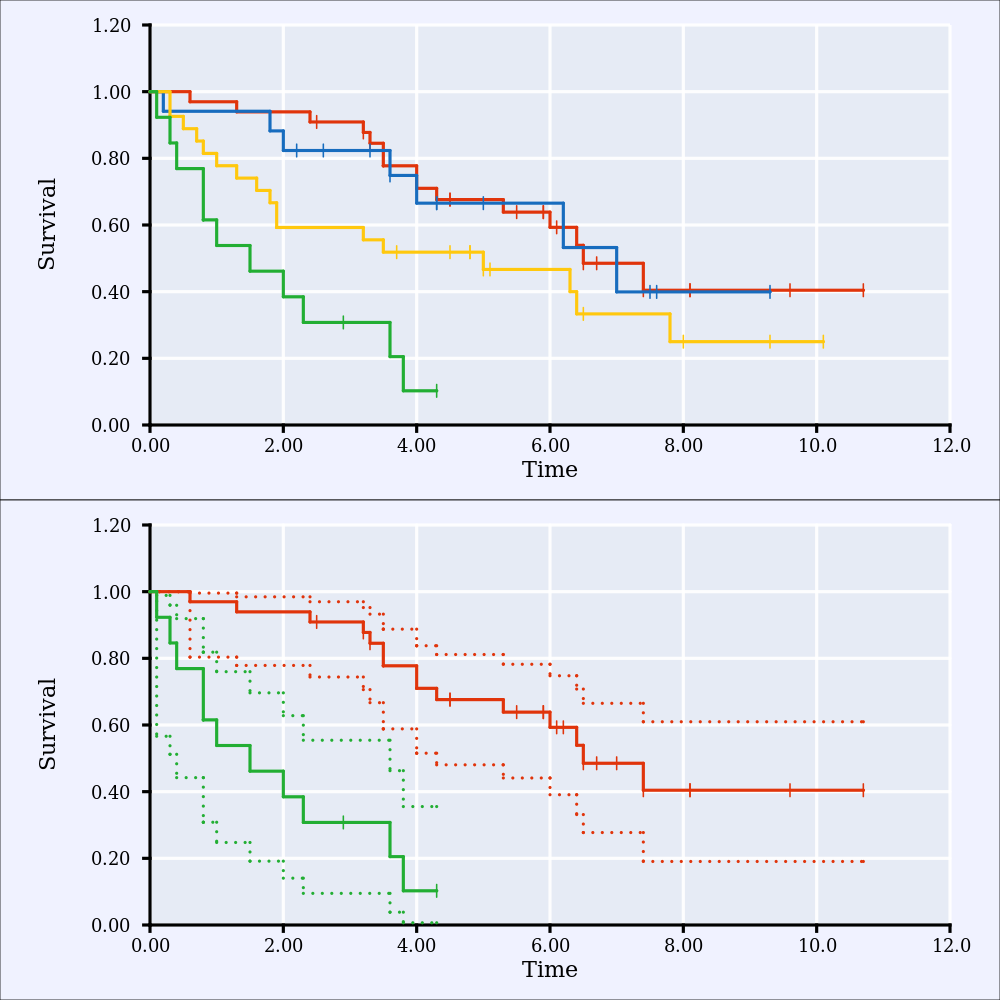
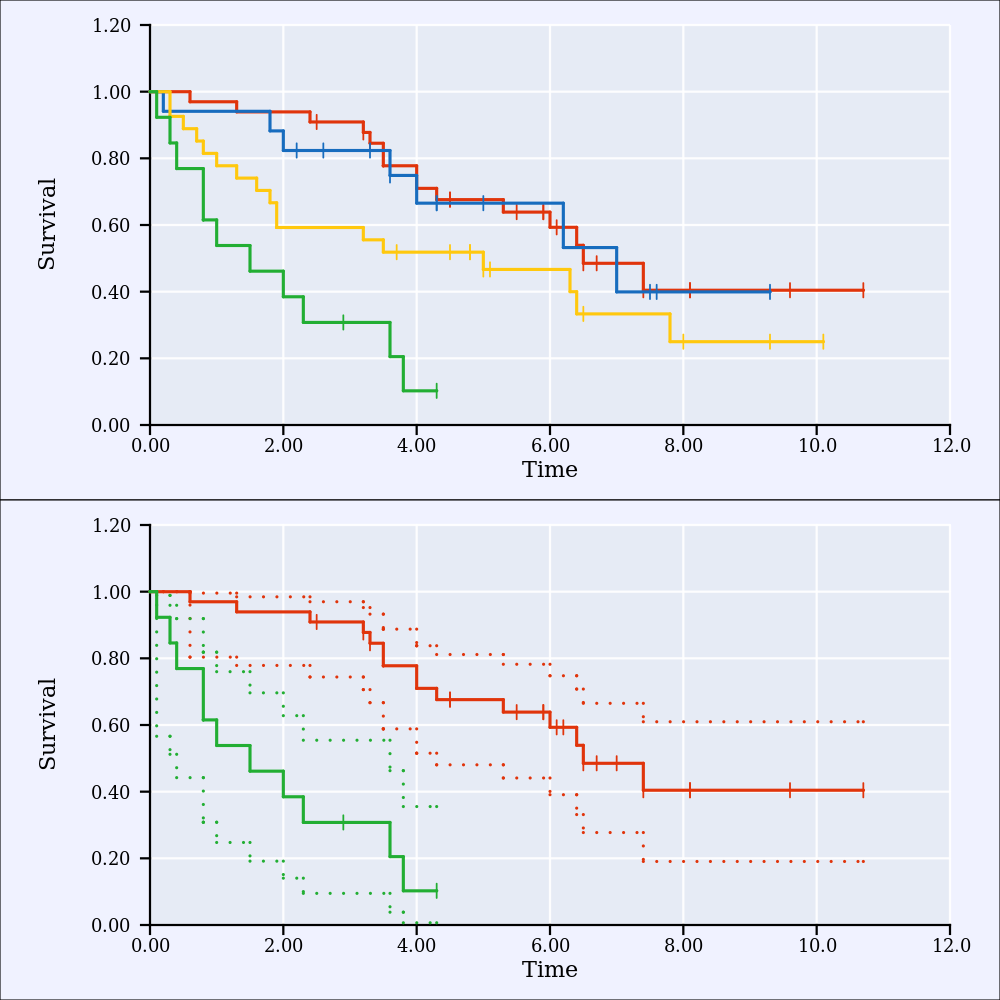
Cleaned up some inconsistencies

diff --git a/src/canvas.rs b/src/canvas.rs
@@ -44,13 +44,13 @@ impl Canvas {
         y_axis_label.set_font_size(0.025);
         Canvas {
             color: Rgba::new(230.0/255.0, 235.0/255.0, 245.0/255.0, 1.0),
-            local_frame: shape::Rectangle::from_sides(0.15, 0.95, 0.15, 0.95),
+            local_frame: shape::Rectangle::new_from(0.15, 0.95, 0.15, 0.95),
             global_frame: shape::Rectangle::new(),
             data_frame: shape::Rectangle::new(),
             user_data_frame: shape::Rectangle::new(),
             display_axes: true,
             display_grid: true,
-            grid_width: 0.005,
+            grid_width: 0.0025,
             grid_color: Rgba::new(1.0, 1.0, 1.0, 0.9),
             grid: Vec::<mark::GridLine>::new(),
             hor_marks: Vec::<mark::Mark>::new(),
@@ -216,19 +216,19 @@ impl Canvas {
 
     /// Compute grid lines given a vertical and a horisontal axis
     fn compute_grid(&mut self, ver_axis: &axis::Axis, hor_axis: &axis::Axis) {
-        let scale_factor = self.global_frame.diag_len() / 2_f64.sqrt();
+        let scale_factor = self.global_frame.diag_len();
         //let scale_factor = self.global_frame.height().min(self.global_frame.width());
         for coord in ver_axis.mark_coords() {
-            let mut gridline = mark::GridLine::new(coord.clone(),
-                                                   coord::Coord::new_from(self.global_frame.right(), coord.y()));
+            let mut gridline = mark::GridLine::new_from(coord.clone(),
+                                                        coord::Coord::new_from(self.global_frame.right(), coord.y()));
             gridline.set_color(self.grid_color);
             gridline.set_width(self.grid_width);
             gridline.scale_size(scale_factor);
             self.grid.push(gridline);
         }
         for coord in hor_axis.mark_coords() {
-            let mut gridline = mark::GridLine::new(coord.clone(),
-                                                   coord::Coord::new_from(coord.x(), self.global_frame.top()));
+            let mut gridline = mark::GridLine::new_from(coord.clone(),
+                                                        coord::Coord::new_from(coord.x(), self.global_frame.top()));
             gridline.set_color(self.grid_color);
             gridline.set_width(self.grid_width);
             gridline.scale_size(scale_factor);
@@ -239,7 +239,7 @@ impl Canvas {
     /// Find the smallest data frame including all data points from all charts
     fn find_largest_chart_data_frame(&self) -> Option<shape::Rectangle> {
         if self.charts.len() == 0 { return None }
-        let mut largest_data_frame = shape::Rectangle::from_sides(f64::MAX, f64::MIN, f64::MAX, f64::MIN);
+        let mut largest_data_frame = shape::Rectangle::new_from(f64::MAX, f64::MIN, f64::MAX, f64::MIN);
         for chart in self.charts.iter() {
             if chart.data_frame().left() < largest_data_frame.left() {
                 largest_data_frame.set_left(chart.data_frame().left());
@@ -296,7 +296,7 @@ impl Canvas {
     ///
     /// In the meantime, the possibility to not draw the axes have to suffice.
     fn set_default_axes(&mut self, data_frame: shape::Rectangle) -> Result<(axis::Axis, axis::Axis), Error> {
-        let mut hor_axis = axis::Axis::from_coord(coord::Coord::new_from(0.0, 0.0), coord::Coord::new_from(1.0, 0.0));
+        let mut hor_axis = axis::Axis::new_from(coord::Coord::new_from(0.0, 0.0), coord::Coord::new_from(1.0, 0.0));
         hor_axis.set_data_range(data_frame.left(), data_frame.right());
         hor_axis.compute_marks()?;
 
@@ -314,7 +314,7 @@ impl Canvas {
         hor_axis.set_label_frame_gaps(0.0, 0.0, 0.0, 0.0);
         */
 
-        let mut ver_axis = axis::Axis::from_coord(coord::Coord::new_from(0.0, 0.0), coord::Coord::new_from(0.0, 1.0));
+        let mut ver_axis = axis::Axis::new_from(coord::Coord::new_from(0.0, 0.0), coord::Coord::new_from(0.0, 1.0));
         ver_axis.set_data_range(data_frame.bottom(), data_frame.top());
         ver_axis.compute_marks()?;
 
@@ -343,7 +343,7 @@ impl Canvas {
         // First, we update the global_frame relative to the parent's global_frame.
         // After this is called, both local_frame and global_frame should not be altered.
         self.local_frame.scale_size(plot_frame.diag_len()); //JIC we want to display the border
-        self.global_frame = self.local_frame.relative_to(&plot_frame);
+        self.global_frame = self.local_frame.relative_to(plot_frame);
 
         // Second, we update the data_frame
         let data_frame = self.compute_data_frame();
@@ -361,7 +361,7 @@ impl Canvas {
         let data_right = hor_axis.data_max();
         let data_bottom = ver_axis.data_min();
         let data_top = ver_axis.data_max();
-        self.data_frame = shape::Rectangle::from_sides(data_left, data_right, data_bottom, data_top);
+        self.data_frame = shape::Rectangle::new_from(data_left, data_right, data_bottom, data_top);
 
         // Then, we update the axis, and charts based on this updated configuration
         ver_axis.fit(&self.global_frame);

diff --git a/src/lib.rs b/src/lib.rs
@@ -64,7 +64,7 @@
 //!                            .map(|_| normal_0_2.ind_sample(&mut seeded_rng) as f64)
 //!                            .collect();
 //!     let scatter = Scatter::new(&x_data, &y_data).set_color_rgba(0.1, 0.8, 0.3, 0.9)
-//!                                                 .set_point_size(0.005);
+//!                                                 .set_point_size(0.003);
 //!
 //!     // Add scatter points to a new plot
 //!     let scatter_plot = Plot::new().set_local_frame(0.3, 1.0, 0.0, 0.49)
@@ -192,35 +192,20 @@
 //! implemented sometime in the future.
 //!
 //! #### [GridLine](mark/struct.GridLine.html)
-//! Much the same as a tick, but stretches across the whole canvas, normally on the axis it belongs
-//! to.
+//! Much the same as a tick, but stretches across the whole canvas, perpendicular on the axis it
+//! belongs to.
 //!
 //! ## TODO:
 //!
 //! ### Close future
-//! - Set axes data range explicitly. Currently it is determined to fit the range of the input
-//! data.
-//! - Set figure dimensions. Currently, non-square looks ugly. Non-square plots looks as expected,
-//! and the figure should work in the same way. This can possibly be done by cropping the figure to
-//! fit its plots at the end of the drawing.
-//! - Let axis labels, tick labels and tics determine the default location of the axes
-//! - Make more examples, and organise them sensibly
-//! - Refactor fit and scaling functions, e.g. one fit_fig, and fit_plot for all drawables
-//! - Make gridlines a part of tick struct. This is because a gridline is just an extension of a tick.
-//! - Also have a flag or something to indicate major / minor ticks.
+//! - Implement the above plot variants
+//! - Implement minor ticks and grid lines
 //! - Implement dotted gridlines
-//!
-//! - Name frames according to what they are. If it is natural for a struct to have a local frame,
-//! name it struct.local_frame and let this allways be initialized to (0, 1)x(0, 1). Connected to
-//! this local_frame is a global_frame, that holds coordinates relative to the global Figure
-//! coordinate system. The global_frame is used for drawing. If the struct have data attached to
-//! it, name this struct.data_frame.
 //!
 //! ### More distant future
 //! - Implement the above plot variants
+//! - Add legend
 //! - Fix the use of PlotType in the api, hide it somehow.
-//! - Implement minor ticks and grid lines
-//! - Add legend.
 extern crate cairo;
 extern crate gio;
 extern crate gtk;

diff --git a/src/mark.rs b/src/mark.rs
@@ -22,7 +22,18 @@ pub struct Mark {
 
 impl Mark {
     /// Create and return a new mark
-    pub fn new(coord: coord::Coord) -> Mark {
+    pub fn new() -> Mark {
+        Mark {
+            local: coord::Coord::new(),
+            global: coord::Coord::new(),
+            label: label::Label::new(),
+            label_offset: 0.0,
+            tick: Tick::new(),
+        }
+    }
+
+    /// Create and return a new mark
+    pub fn new_from_coord(coord: coord::Coord) -> Mark {
         Mark {
             local: coord,
             global: coord::Coord::new(),
@@ -167,7 +178,7 @@ impl Mark {
     /// Fit the mark to the parent frame
     pub fn fit(&mut self, parent_frame: &shape::Rectangle) {
         self.global = self.local.relative_to(parent_frame);
-        self.scale_size(parent_frame.diag_len() / 2f64.sqrt());
+        self.scale_size(parent_frame.diag_len());
         self.label.fit(parent_frame);
     }
 
@@ -198,9 +209,9 @@ impl Tick {
     pub fn new() -> Tick {
         Tick {
             color: Rgba::new(0.0, 0.0, 0.0, 1.0),
-            width: 0.005,
-            positive_length: 0.01,
-            negative_length: 0.01,
+            width: 0.0025,
+            positive_length: 0.005,
+            negative_length: 0.005,
             direction: coord::Coord::new(),
         }
     }
@@ -294,7 +305,7 @@ impl Tick {
 
     /// Fit the tick to a parent mark frame
     pub fn fit(&mut self, mark_frame: shape::Rectangle) {
-        self.scale_size(mark_frame.diag_len() / 2f64.sqrt());
+        self.scale_size(mark_frame.diag_len());
     }
 
     /// Draw the tick mark
@@ -340,12 +351,23 @@ pub struct GridLine {
 
 impl GridLine {
     /// Create and return a new GridLine
-    pub fn new(start: coord::Coord, end: coord::Coord) -> GridLine {
+    pub fn new() -> GridLine {
+        GridLine {
+            global_start: coord::Coord::new(),
+            global_end: coord::Coord::new(),
+            direction: coord::Coord::new(),
+            width: 0.001,
+            color: Rgba::new(1.0, 1.0, 1.0, 1.0),
+        }
+    }
+
+    /// Create and return a new GridLine
+    pub fn new_from(start: coord::Coord, end: coord::Coord) -> GridLine {
         GridLine {
             global_start: start.clone(),
             global_end: end.clone(),
             direction: start.unit_direction_to(&end),
-            width: 0.005,
+            width: 0.001,
             color: Rgba::new(1.0, 1.0, 1.0, 1.0),
         }
     }

diff --git a/src/axis.rs b/src/axis.rs
@@ -36,7 +36,7 @@ impl Axis {
             global_end: coord::Coord::new(),
             direction: coord::Coord::new(),
             color: Rgba::new(0.0, 0.0, 0.0, 1.0),
-            line_width: 0.005,
+            line_width: 0.0025,
             data_range: [0.0, 1.0],
             label: label::Label::new(),
             ca_num_marks: 7,
@@ -44,7 +44,7 @@ impl Axis {
         }
     }
 
-    pub fn from_coord(start: coord::Coord, end: coord::Coord) -> Axis {
+    pub fn new_from(start: coord::Coord, end: coord::Coord) -> Axis {
         Axis {
             local_start: start.clone(),
             local_end: end.clone(),
@@ -52,7 +52,7 @@ impl Axis {
             global_end: coord::Coord::new(),
             direction: start.unit_direction_to(&end),
             color: Rgba::new(0.0, 0.0, 0.0, 1.0),
-            line_width: 0.005,
+            line_width: 0.0025,
             data_range: [0.0, 1.0],
             label: label::Label::new(),
             ca_num_marks: 7,
@@ -240,7 +240,7 @@ impl Axis {
             let mark_y = utils::map_range(data_location, min_data, max_data,
                                           self.local_start.y(), self.local_end.y());
             let mark_location = coord::Coord::new_from(mark_x, mark_y);
-            let mut mark_k = mark::Mark::new(mark_location);
+            let mut mark_k = mark::Mark::new_from_coord(mark_location);
             mark_k.set_label_content(&utils::prettify(data_location));
 
             marks.push(mark_k);
@@ -262,10 +262,10 @@ impl Axis {
     /// and changes above in the hierarchy (canvas -> plot -> figure).
     pub fn fit(&mut self, canvas_frame: &shape::Rectangle) {
         // Local coordinates are determined from initialization or user input.
-        self.global_start = self.local_start.relative_to(&canvas_frame);
-        self.global_end = self.local_end.relative_to(&canvas_frame);
+        self.global_start = self.local_start.relative_to(canvas_frame);
+        self.global_end = self.local_end.relative_to(canvas_frame);
         let unit_perp_direction = self.global_start.perp_direction(&self.global_end);
-        let scale_factor = canvas_frame.diag_len() / 2f64.sqrt();
+        let scale_factor = canvas_frame.diag_len();
         self.scale_size(scale_factor);
 
         self.label.fit(canvas_frame);

diff --git a/src/chart/line.rs b/src/chart/line.rs
@@ -30,7 +30,7 @@ struct DashPattern {
 }
 
 impl DashPattern {
-    fn new(stroke_style: &StrokeStyle) -> DashPattern {
+    fn new_from(stroke_style: &StrokeStyle) -> DashPattern {
         match *stroke_style {
             StrokeStyle::Dashed => {
                 DashPattern {
@@ -137,15 +137,15 @@ impl Line {
             data_points.push(point);
         }
         let stroke_style = StrokeStyle::Continuous;
-        let dash_pattern = DashPattern::new(&stroke_style);
+        let dash_pattern = DashPattern::new_from(&stroke_style);
 
         Line {
             data_points: data_points,
-            data_frame: shape::Rectangle::from_sides(x_data_min.val(), x_data_max.val(),
-                                                 y_data_min.val(), y_data_max.val()),
+            data_frame: shape::Rectangle::new_from(x_data_min.val(), x_data_max.val(),
+                                                   y_data_min.val(), y_data_max.val()),
             global_frame: shape::Rectangle::new(),
             color: Rgba::new(0.1, 0.2, 0.5, 0.9),
-            line_width: 0.005,
+            line_width: 0.0035,
             line_style: LineStyle::Plain,
             stroke_style: stroke_style,
             dash_pattern: dash_pattern,
@@ -208,7 +208,7 @@ impl Line {
             "dotted" => self.stroke_style = StrokeStyle::Dotted,
             _ => self.stroke_style = StrokeStyle::Continuous,
         }
-        self.dash_pattern = DashPattern::new(&self.stroke_style);
+        self.dash_pattern = DashPattern::new_from(&self.stroke_style);
         self
     }
 
@@ -246,7 +246,7 @@ impl utils::Drawable for Line {
     fn fit(&mut self, canvas_global_frame: &shape::Rectangle, canvas_data_frame: &shape::Rectangle) {
         self.global_frame = canvas_global_frame.clone();
         self.data_frame = canvas_data_frame.clone();
-        let scale_factor = self.global_frame.diag_len() / 2f64.sqrt();
+        let scale_factor = self.global_frame.diag_len();
         self.scale_size(scale_factor);
 
         for data_point in self.data_points.iter_mut() {

diff --git a/src/chart/scatter.rs b/src/chart/scatter.rs
@@ -35,7 +35,7 @@ impl Scatter {
 
         let color = Rgba::new(0.1, 0.1, 0.8, 0.9);
         let shape = chart::point::Shape::Circle;
-        let point_size = 0.01;
+        let point_size = 0.008;
         let mut data_points = Vec::<chart::point::Point>::new();
         for (ref x, ref y) in x_view.iter().zip(y_view.iter()) {
             let mut point = chart::point::Point::new(x.val(), y.val());
@@ -47,8 +47,8 @@ impl Scatter {
         Scatter {
             data_points: data_points,
             global_frame: shape::Rectangle::new(),
-            data_frame: shape::Rectangle::from_sides(x_data_min.val(), x_data_max.val(),
-                                                 y_data_min.val(), y_data_max.val()),
+            data_frame: shape::Rectangle::new_from(x_data_min.val(), x_data_max.val(),
+                                                   y_data_min.val(), y_data_max.val()),
             color: color,
             shape: shape,
             point_size: point_size,

diff --git a/src/chart/point.rs b/src/chart/point.rs
@@ -32,7 +32,7 @@ impl Point {
         Point {
             coord: coord::Coord::new_from(x_coord, y_coord),
             color: Rgba::new(0.5, 0.2, 0.1, 0.9),
-            size: 0.01,
+            size: 0.003,
             shape: Shape::Circle,
         }
     }
@@ -116,7 +116,7 @@ impl utils::Drawable for Point {
     }
 
     fn fit(&mut self, canvas_global_frame: &shape::Rectangle, _: &shape::Rectangle) {
-        self.scale_size(canvas_global_frame.diag_len() / 2f64.sqrt());
+        self.scale_size(canvas_global_frame.diag_len());
     }
 
     fn draw(&self, cr: &Context, fig_rel_height: f64, fig_rel_width: f64) {

diff --git a/examples/frontpage_example.rs b/examples/frontpage_example.rs
@@ -51,7 +51,7 @@ fn main() {
                            .map(|_| normal_0_2.ind_sample(&mut seeded_rng) as f64)
                            .collect();
     let scatter = Scatter::new(&x_data, &y_data).set_color_rgba(0.1, 0.8, 0.3, 0.9)
-                                                .set_point_size(0.005);
+                                                .set_point_size(0.003);
 
     // Add scatter points to a new plot
     let scatter_plot = Plot::new().set_local_frame(0.3, 1.0, 0.0, 0.49)

diff --git a/src/plot.rs b/src/plot.rs
@@ -213,7 +213,7 @@ impl Plot {
     /// The function scales various elements within the plot, and calls a similar plot for its
     /// canvasses.
     pub fn fit(&mut self) -> Result<(), Error> {
-        let scale_factor = self.local_frame.diag_len() / 2f64.sqrt();
+        let scale_factor = self.local_frame.diag_len();
         self.scale_size(scale_factor);
         self.canvas.fit(&self.local_frame)?;
 

diff --git a/src/shape.rs b/src/shape.rs
@@ -43,7 +43,7 @@ impl Rectangle {
     }
 
     /// Return a new frame from given coordinate values.
-    pub fn from_sides(left: f64, right: f64, bottom: f64, top: f64) -> Rectangle {
+    pub fn new_from(left: f64, right: f64, bottom: f64, top: f64) -> Rectangle {
         Rectangle {
             left: left,
             right: right,

diff --git a/README.md b/README.md
@@ -94,7 +94,7 @@ fn main() {
                            .map(|_| normal_0_2.ind_sample(&mut seeded_rng) as f64)
                            .collect();
     let scatter = Scatter::new(&x_data, &y_data).set_color_rgba(0.1, 0.8, 0.3, 0.9)
-                                                .set_point_size(0.005);
+                                                .set_point_size(0.003);
 
     // Add scatter points to a new plot
     let scatter_plot = Plot::new().set_local_frame(0.3, 1.0, 0.0, 0.49)
